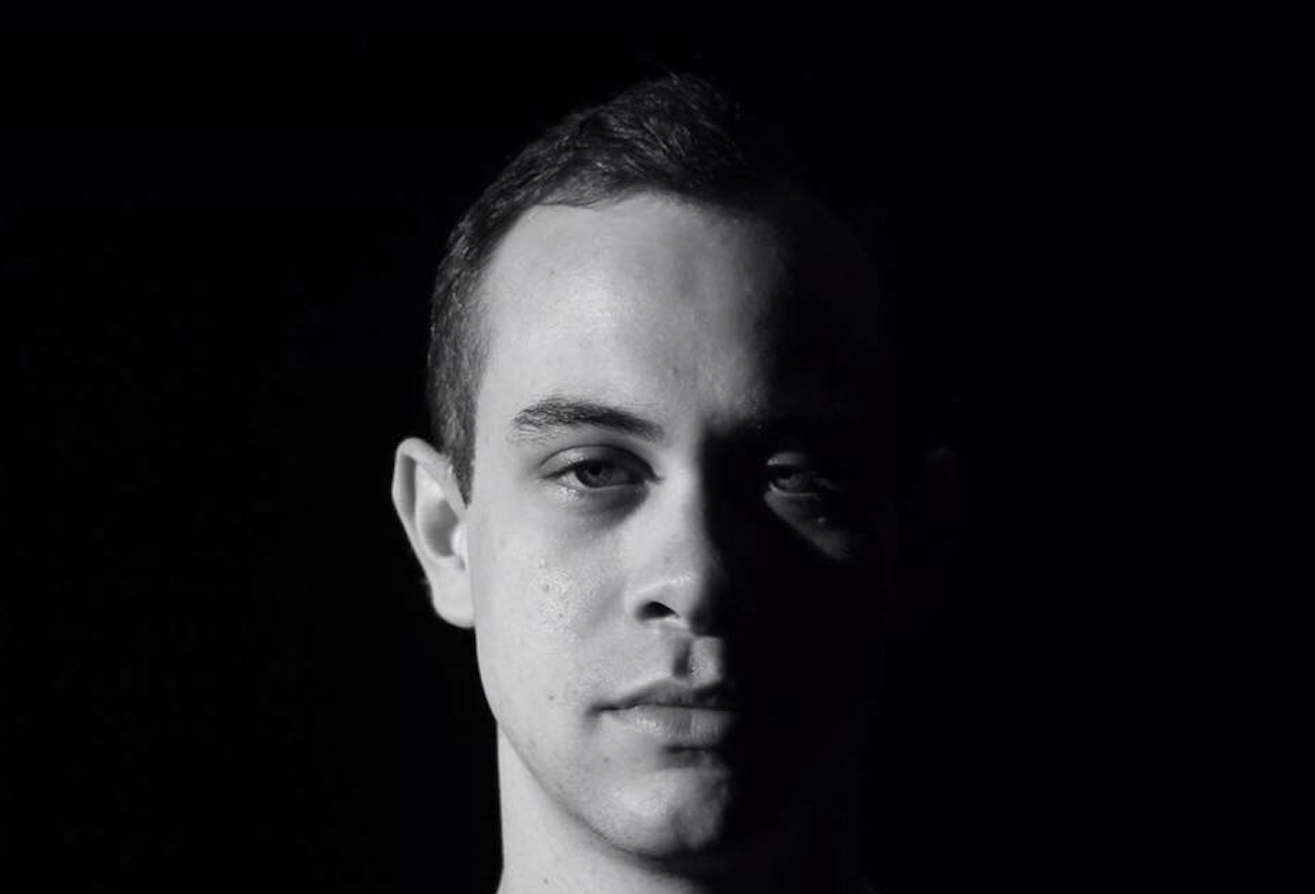
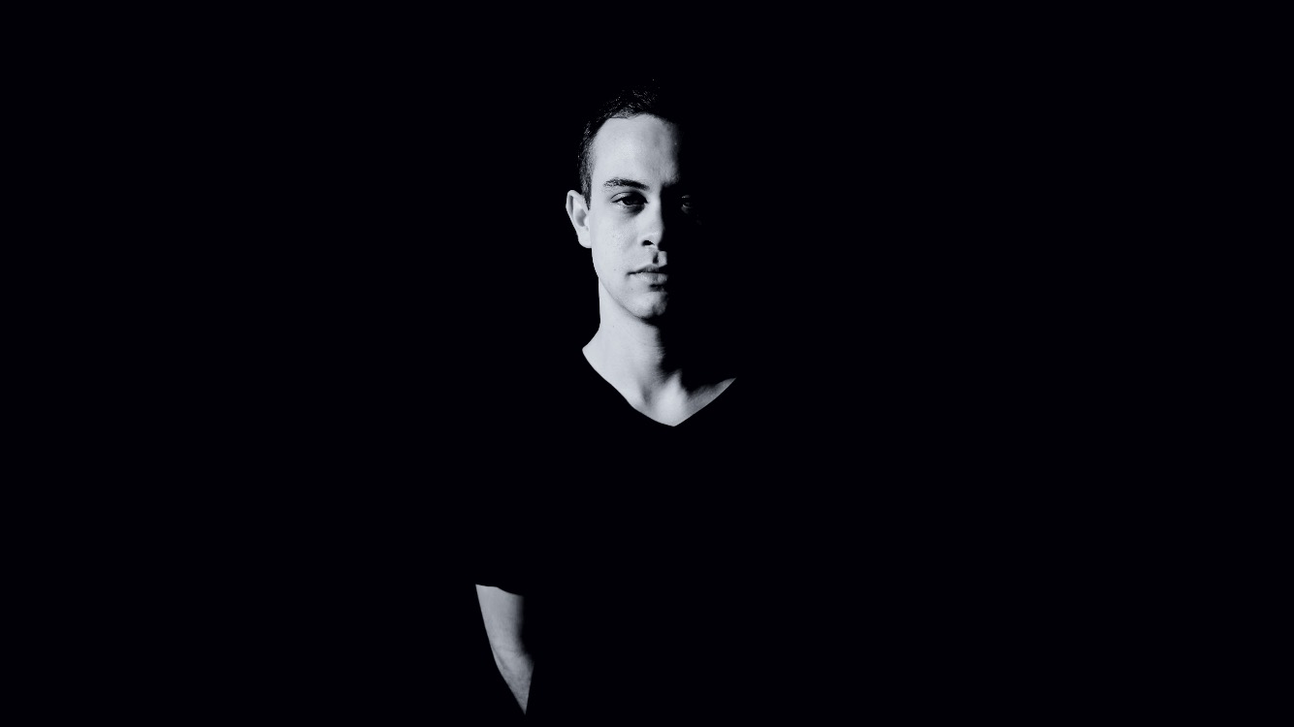
update image so jeremys head isnt so damn big

Changed region(s): [[0.2766, 0.092, 0.6454, 1.0]]

diff --git a/_site/assets/css/i.css b/_site/assets/css/i.css
@@ -1,1 +1,1 @@
-html,body,div,span,applet,object,iframe,h1,h2,h3,h4,h5,h6,p,blockquote,pre,a,abbr,acronym,address,big,cite,code,del,dfn,em,img,ins,kbd,q,s,samp,small,strike,strong,sub,sup,tt,var,b,u,i,center,dl,dt,dd,ol,ul,li,fieldset,form,label,legend,table,caption,tbody,tfoot,thead,tr,th,td,article,aside,canvas,details,figcaption,figure,footer,header,hgroup,menu,nav,section,summary,time,mark,audio,video{border:0;font:inherit;margin:0;outline:0;padding:0;vertical-align:baseline}article,aside,details,figcaption,figure,footer,header,hgroup,menu,nav,section{display:block}body{line-height:1}ul{list-style:none}blockquote,q{quotes:none}blockquote:before,blockquote:after,q:before,q:after{content:'';content:none}:focus{outline:none}ins{text-decoration:none}del{text-decoration:line-through}table{border-collapse:collapse;border-spacing:0}a{text-decoration:none}*{box-sizing:border-box}body{width:100%}body:before,body:after{content:"";display:table}body:after{clear:both}body{zoom:1}p{font-size:22px;line-height:33px}.intro{font-size:32px;line-height:1.4em}.post ul li{font-size:22px;line-height:33px;margin-bottom:11px}h1,.h1{font-size:64px}h2,.h2{font-size:48px}h3,.h3{font-size:32px}h4,.h4{font-size:24px}h5,.h5{font-size:16px}h6,.h6{font-size:12px}.meta{font-size:12px}blockquote,blockquote p{font-size:48px}.archive input{font-size:48px}@media only screen and (max-width: 480px){p{font-size:16px;line-height:24px}.intro{font-size:24px;line-height:1.4em}.post ul li{font-size:16px;line-height:24px;margin-bottom:12px}h1,.h1{font-size:48px}h2,.h2{font-size:32px}h3,.h3{font-size:24px}h4,.h4{font-size:16px}h5,.h5{font-size:12px}h6,.h6{font-size:12px}.meta{font-size:12px}blockquote,blockquote p{font-size:24px}.archive input{font-size:32px}}body{font-family:"Calendas Plus","Crimson Text","Hoefler Text","Georgia",serif;color:#3b3b3b;-webkit-font-smoothing:antialiased;-moz-osx-font-smoothing:grayscale;text-size-adjust:100%;background:#f9f9f9;min-height:100%;height:100%;overflow-x:hidden}h1,h2,h3,h4,h5{font-family:"Calendas Plus","Crimson Text","Hoefler Text","Georgia",serif}p{margin-bottom:33px}a,a:visited,a:active{color:#8AB9D1;-moz-transition:all .25s ease-in-out;-o-transition:all .25s ease-in-out;-webkit-transition:all .25s ease-in-out;-ms-transition:all .25s ease-in-out;transition:all .25s ease-in-out}a:hover{color:#24536B;-moz-transition:all .25s ease-in-out;-o-transition:all .25s ease-in-out;-webkit-transition:all .25s ease-in-out;-ms-transition:all .25s ease-in-out;transition:all .25s ease-in-out}em{padding:1px 2px;border-radius:2px;background:#ffe8c0}strong{font-weight:bold}small{font-size:16px}sup{vertical-align:super;font-size:12px}.hilite{display:inline-block;padding:0 0.3em;-moz-border-radius:4px;-webkit-border-radius:4px;border-radius:4px;background:#fffbd7}blockquote,blockquote p{font-style:italic;line-height:1.3em;text-align:center;color:#3c3c3c;margin-bottom:33px}code{color:#24536B;font-family:"Monaco", "Courier New", "Courier";font-size:.75em;font-weight:bold}.highlight{background:#3b3b3b;padding:12px;border-radius:4px;margin-bottom:33px;overflow-x:scroll}.highlight code{color:#f9f9f9;font-family:"Monaco", "Courier New", "Courier";font-size:.9em}.highlight code .lineno{margin-right:16.5px;color:#d9d9d9;line-height:2em}.highlight code .nt{color:#c85b5c}.highlight code .na{color:#f0e687}.highlight code .s{color:#87ceeb}hr{display:block;margin:0 auto;width:100%;height:4px;background:#d9d9d9;border:none;margin-bottom:33px;border-radius:2px}input{background:none;border:none;outline:none}.archive input{background:none;outline:none;width:100%;font-family:"Calendas Plus","Crimson Text","Hoefler Text","Georgia",serif}.archive input:focus{background:white;color:#3b3b3b}.icons{font-family:"Icons";font-size:14px;line-height:20px}.bb{border-bottom:2px solid #8AB9D1}.pad-top{padding-top:66px}#bump{min-height:100%;height:auto;margin:0 auto-320px}.wrap{max-width:960px;display:inline;float:left;width:97%;margin:0 1.5%;float:none;margin:0 auto;overflow:hidden}.wrap:before,.wrap:after{content:"";display:table}.wrap:after{clear:both}.wrap{zoom:1}.post{display:inline;float:left;width:77%;margin:0 1.5%;max-width:680px;display:block;margin:0 auto;float:none}header.site-header{padding:20px 0;position:absolute;width:100%;z-index:5000}header.site-header .wrap{max-width:90vw}#bump .darken a{color:#3b3b3b;-moz-transition:all .2s ease-in-out;-o-transition:all .2s ease-in-out;-webkit-transition:all .2s ease-in-out;-ms-transition:all .2s ease-in-out;transition:all .2s ease-in-out}#bump .darken a:hover{color:#8AB9D1;-moz-transition:all .2s ease-in-out;-o-transition:all .2s ease-in-out;-webkit-transition:all .2s ease-in-out;-ms-transition:all .2s ease-in-out;transition:all .2s ease-in-out}#bump .darken .menu .icons{color:#3b3b3b}#bump .darken nav ul li a{color:#3b3b3b}#bump .darken nav ul li a:active{color:#8AB9D1}#bump .darken nav ul li a:hover{text-shadow:none;color:#8AB9D1}header.site-header a.menu{display:none}header.site-header hgroup h1,header.site-header nav ul{font-family:"Source Sans Pro","Open Sans","Helvetica Neue","Arial",sans-serif}header.site-header hgroup{float:left;padding-left:5vw}header.site-header hgroup h1{font-weight:700;font-size:18px;line-height:100%;color:#24536B;letter-spacing:2px;text-transform:uppercase}header.site-header hgroup a{color:#fff;-moz-transition:all .2s ease;-o-transition:all .2s ease;-webkit-transition:all .2s ease;-ms-transition:all .2s ease;transition:all .2s ease}header.site-header hgroup a:hover{text-shadow:0 0 3px rgba(255,255,255,0.6);-moz-transition:all .2s ease;-o-transition:all .2s ease;-webkit-transition:all .2s ease;-ms-transition:all .2s ease;transition:all .2s ease}header.site-header nav{float:right;display:block;padding-right:5vw}header.site-header nav:before,header.site-header nav:after{content:"";display:table}header.site-header nav:after{clear:both}header.site-header nav{zoom:1}header.site-header nav ul li{font-size:16px;text-transform:uppercase;display:inline;font-weight:bold;top:2px;position:relative;margin-left:20px}header.site-header nav ul li a{color:white;-moz-transition:all .2s ease;-o-transition:all .2s ease;-webkit-transition:all .2s ease;-ms-transition:all .2s ease;transition:all .2s ease}header.site-header nav ul li a:hover{text-shadow:0 0 3px rgba(255,255,255,0.6);-moz-transition:all .2s ease;-o-transition:all .2s ease;-webkit-transition:all .2s ease;-ms-transition:all .2s ease;transition:all .2s ease}.article{position:relative;margin-bottom:33px}.article .overlay{vertical-align:middle;min-height:360px;height:50vh;width:100%;max-height:800px;position:absolute;z-index:2;background:rgba(0,0,0,0.55)}.article .overlay-lighter{background:rgba(0,0,0,0.1)}.article .featured-image{vertical-align:middle;min-height:360px;height:50vh;width:100%;max-height:800px;background-position:center center;background-size:cover;vertical-align:middle;-webkit-background-size:cover;-moz-background-size:cover;-o-background-size:cover;position:relative;top:0;z-index:-1}.article .featured-image img{max-height:800px}.article header{margin:66px 0 33px 0}.article header hgroup{color:#3b3b3b;position:relative;text-align:center;width:100%;margin-top:0}.article header hgroup .date{font-family:"Source Sans Pro","Open Sans","Helvetica Neue","Arial",sans-serif;font-size:16px;font-weight:bold;color:#d9d9d9;text-transform:uppercase;margin-top:22px}.article header .intro{text-align:left}.archive{display:inline;float:left;width:97%;margin:0 1.5%;display:block;margin:0 auto;float:none;min-height:500px}.archive-wrap{display:inline;float:left;width:97%;margin:0 1.5%;max-width:800px;display:block;margin:0 auto;float:none;padding-top:140px}.archive-wrap .post-list{list-style-type:none;list-style:none;display:inline;float:left;width:67%;margin:0 1.5%;margin-left:21.5%;display:block;float:none}.archive-wrap .post-list lh h2{margin-bottom:49.5px}.archive-wrap .post-list li{display:block;float:none;font-size:32px;margin-bottom:66px;position:relative}.archive-wrap .post-list li a{position:relative}.archive-wrap .post-list li a:hover{-moz-transition:all 1s ease-in-out;-o-transition:all 1s ease-in-out;-webkit-transition:all 1s ease-in-out;-ms-transition:all 1s ease-in-out;transition:all 1s ease-in-out}.archive-wrap .post-list li a:hover:before{content:'...';color:#d9d9d9;font-family:"Source Sans Pro","Open Sans","Helvetica Neue","Arial",sans-serif;position:absolute;margin-left:-70px;font-size:40px;left:0;top:-20px;text-align:center;-moz-transition:all 1s ease-in-out;-o-transition:all 1s ease-in-out;-webkit-transition:all 1s ease-in-out;-ms-transition:all 1s ease-in-out;transition:all 1s ease-in-out}.archive-wrap .post-list li a:before{content:'\201c';color:#d9d9d9;position:absolute;margin-left:-70px;font-size:60px;z-index:10;top:-6px;left:0;text-align:center;-moz-transition:all 1s ease-in-out;-o-transition:all 1s ease-in-out;-webkit-transition:all 1s ease-in-out;-ms-transition:all 1s ease-in-out;transition:all 1s ease-in-out}.archive-wrap .post-list li h1{font-size:32px;font-style:italic}.archive-wrap .post-list .summary{font-size:18px;line-height:1.45em}.archive-wrap .post-list .date{margin-bottom:3px}.archive-wrap .post-list .date time{position:relative;top:-3px;font-size:16px;font-weight:bold;font-family:"Source Sans Pro","Open Sans","Helvetica Neue","Arial",sans-serif;font-style:normal;color:#d9d9d9;text-transform:uppercase;vertical-align:middle}.post{min-height:500px}.post .deets{position:relative;top:45px;z-index:5}.post .deets .date{font-size:16px;position:relative;top:10px;left:6px;color:#999;margin-bottom:16.5px}.post h1{font-style:italic}.post h1,.post h2,.post h3,.post h4,.post h5{padding-top:16.5px;margin-bottom:16.5px;line-height:1.25em}.post figure{margin:33px 0}.post figure img{margin-bottom:16.5px}.post figure figcaption{font-size:16px;font-family:"Source Sans Pro","Open Sans","Helvetica Neue","Arial",sans-serif;font-weight:bold;text-transform:uppercase;color:#bbb;text-align:center}.post img{width:100%;height:auto;display:block;margin:33px auto;-moz-border-radius:4px;-webkit-border-radius:4px;border-radius:4px}.post table{margin-bottom:33px;width:100%;font-size:22px}.post table caption{font-size:16px;font-family:"Source Sans Pro","Open Sans","Helvetica Neue","Arial",sans-serif;font-weight:bold;text-transform:uppercase;color:#bbb;text-align:center;margin-bottom:16.5px}.post tbody tr:hover>td,.post tbody tr:hover>th{background-color:#999}.post thead tr:first-child td{border-bottom:2px solid #222}.post th{padding:12px;padding:.54545rem;font-family:"Source Sans Pro","Open Sans","Helvetica Neue","Arial",sans-serif;font-size:16px;font-weight:bold;text-align:left;background-color:#d9d9d9;border-bottom:1px solid #000}.post td{font-size:16px;border-bottom:1px solid #222;padding:12px;padding:.54545rem}.post tr,.post td,.post th{vertical-align:middle}.post ul{display:block;margin-bottom:33px;list-style:disc;list-style-type:disc}.post ul lh h1,.post ul lh h2,.post ul lh h3,.post ul lh h4,.post ul lh h5{border-bottom:2px solid #d9d9d9}.post ul li{list-style:disc;list-style-type:disc;margin-left:66px;padding-left:11px}.post ul li:last-child{margin-bottom:0}.post ol{display:block;margin-bottom:33px}.post ol lh h1,.post ol lh h2,.post ol lh h3,.post ol lh h4,.post ol lh h5{border-bottom:2px solid #d9d9d9}.post ol li{margin-left:66px;padding-left:11px;margin-bottom:11px;line-height:33px;font-size:22px}.post ol li:last-child{margin-bottom:0}.post .share{text-align:center;display:block;margin:0 auto;width:76px;font-size:16px;font-family:"Source Sans Pro","Open Sans","Helvetica Neue","Arial",sans-serif;text-transform:uppercase;font-weight:bold;letter-spacing:1px;padding:4px 6px 4px 6px;color:#d9d9d9;border:2px solid rgba(217,217,217,0.7);-moz-border-radius:4px;-webkit-border-radius:4px;border-radius:4px}.post .share:hover{color:#8AB9D1;border-color:rgba(138,185,209,0.7);-moz-transition:all .2s ease;-o-transition:all .2s ease;-webkit-transition:all .2s ease;-ms-transition:all .2s ease;transition:all .2s ease}.push{height:80px !important}footer{width:100%;background:#3b3b3b;height:320px;font-size:22px;color:#f9f9f9;position:relative}footer section{display:inline;float:left;width:97%;margin:0 1.5%;display:block;width:103%;margin:0 -1.5%;display:block;margin:0 auto}footer section:before,footer section:after{content:"";display:table}footer section:after{clear:both}footer section{zoom:1}footer small{font-size:12px;text-align:center;display:block;width:100%;position:absolute;bottom:8px;font-family:"Source Sans Pro","Open Sans","Helvetica Neue","Arial",sans-serif;text-transform:uppercase;color:rgba(249,249,249,0.1)}footer small a{color:rgba(249,249,249,0.3)}footer .list-title{margin-bottom:16.5px;border-bottom:2px solid #8AB9D1;font-style:italic;font-size:24px}footer .prev-posts{display:inline;float:left;width:57%;margin:0 1.5%;max-width:600px;min-height:250px;padding-left:5vw}footer .prev-posts p{padding-top:66px}footer .prev-posts li{display:block;width:102.5%;margin:0 -1.25%;margin-top:16.5px}footer .prev-posts li:before,footer .prev-posts li:after{content:"";display:table}footer .prev-posts li:after{clear:both}footer .prev-posts li{zoom:1}footer .prev-posts li .recent-title{display:inline;float:left;width:64.16667%;margin:0 1.25%;font-style:italic}footer .prev-posts li .recent-title a:hover{color:#f9f9f9}footer .prev-posts li span.date{float:none;color:rgba(217,217,217,0.6);display:inline;float:left;width:30.83333%;margin:0 1.25%;position:relative;font-size:16px;font-family:"Source Sans Pro","Open Sans","Helvetica Neue","Arial",sans-serif;text-transform:uppercase;text-align:right}footer .social{position:absolute;top:109px;display:inline;float:left;width:14.16667%;margin:0 1.25%;right:5vw;font-style:italic}footer .social a:hover{color:#f9f9f9}footer .social ul li{margin-bottom:16.5px}footer .social ul li:last-child{margin-bottom:0}.disqus{margin-top:99px}@media only screen and (max-width: 800px){h1{font-size:48px}blockquote,blockquote p{font-size:32px}footer{font-size:16px}footer .prev-posts li span.date{font-size:12px}footer .social{right:10vw}}@media only screen and (max-width: 500px){footer .social{display:none}footer aside{width:90%;margin:0 auto}footer .prev-posts{display:inline;float:left;width:87%;margin:0 1.5%;padding-left:0;float:none;margin:0 auto;display:block}footer .prev-posts li{margin-top:16.5px}}@media only screen and (max-width: 680px){section.article img.loading{top:10px !important;right:6%;left:inherit}header.site-header{min-height:59px;margin-top:20px;padding-top:0}header.site-header hgroup h1{margin-bottom:0;font-size:22px}header.site-header hgroup{position:absolute;left:7%;float:none;padding-left:0}header.site-header a.menu{position:absolute;right:7%;display:block;float:right;width:16px;height:16px;color:white}header.site-header a.menu .icons{font-size:32px}header.site-header a.menu img{width:24px;height:auto}header.site-header nav{display:none;float:none;width:100%;padding-right:0}header.site-header nav:before{display:table;clear:both;content:''}header.site-header nav ul{padding:20px 0 10px 0;margin-top:15px}header.site-header nav ul li{display:block;margin-left:0;top:0px;font-size:16px}header.site-header nav ul li a{display:block;text-align:right;font-weight:bold;padding:15px 0px;padding-right:7%;position:relative;width:100%;color:#f9f9f9}header.site-header nav ul li a:active{background-color:#8AB9D1;color:white}header.site-header nav ul li a:hover{text-shadow:none}#bump .darken nav ul{padding:0;margin-top:40px;background:#3b3b3b}#bump .darken nav ul li a{color:#f9f9f9}#bump .darken nav ul li a:active{background-color:#8AB9D1}#bump .darken nav ul li a:hover{text-shadow:none;color:#f9f9f9;background-color:#8AB9D1}}@media only screen and (max-width: 480px){.post{display:inline;float:left;width:87%;margin:0 1.5%;max-width:420px;display:block;margin:0 auto;float:none}footer{font-size:16px}small{font-size:12px}}
+html,body,div,span,applet,object,iframe,h1,h2,h3,h4,h5,h6,p,blockquote,pre,a,abbr,acronym,address,big,cite,code,del,dfn,em,img,ins,kbd,q,s,samp,small,strike,strong,sub,sup,tt,var,b,u,i,center,dl,dt,dd,ol,ul,li,fieldset,form,label,legend,table,caption,tbody,tfoot,thead,tr,th,td,article,aside,canvas,details,figcaption,figure,footer,header,hgroup,menu,nav,section,summary,time,mark,audio,video{border:0;font:inherit;margin:0;outline:0;padding:0;vertical-align:baseline}article,aside,details,figcaption,figure,footer,header,hgroup,menu,nav,section{display:block}body{line-height:1}ul{list-style:none}blockquote,q{quotes:none}blockquote:before,blockquote:after,q:before,q:after{content:'';content:none}:focus{outline:none}ins{text-decoration:none}del{text-decoration:line-through}table{border-collapse:collapse;border-spacing:0}a{text-decoration:none}*{box-sizing:border-box}body{width:100%}body:before,body:after{content:"";display:table}body:after{clear:both}body{zoom:1}p{font-size:22px;line-height:33px}.intro{font-size:32px;line-height:1.4em}.post ul li{font-size:22px;line-height:33px;margin-bottom:11px}h1,.h1{font-size:64px}h2,.h2{font-size:48px}h3,.h3{font-size:32px}h4,.h4{font-size:24px}h5,.h5{font-size:16px}h6,.h6{font-size:12px}.meta{font-size:12px}blockquote,blockquote p{font-size:48px}.archive input{font-size:48px}@media only screen and (max-width: 480px){p{font-size:16px;line-height:24px}.intro{font-size:24px;line-height:1.4em}.post ul li{font-size:16px;line-height:24px;margin-bottom:12px}h1,.h1{font-size:48px}h2,.h2{font-size:32px}h3,.h3{font-size:24px}h4,.h4{font-size:16px}h5,.h5{font-size:12px}h6,.h6{font-size:12px}.meta{font-size:12px}blockquote,blockquote p{font-size:24px}.archive input{font-size:32px}}body{font-family:"Calendas Plus","Crimson Text","Hoefler Text","Georgia",serif;color:#3b3b3b;-webkit-font-smoothing:antialiased;-moz-osx-font-smoothing:grayscale;text-size-adjust:100%;background:#f9f9f9;min-height:100%;height:100%;overflow-x:hidden}h1,h2,h3,h4,h5{font-family:"Calendas Plus","Crimson Text","Hoefler Text","Georgia",serif}p{margin-bottom:33px}a,a:visited,a:active{color:#8AB9D1;-moz-transition:all .25s ease-in-out;-o-transition:all .25s ease-in-out;-webkit-transition:all .25s ease-in-out;-ms-transition:all .25s ease-in-out;transition:all .25s ease-in-out}a:hover{color:#24536B;-moz-transition:all .25s ease-in-out;-o-transition:all .25s ease-in-out;-webkit-transition:all .25s ease-in-out;-ms-transition:all .25s ease-in-out;transition:all .25s ease-in-out}em{padding:1px 2px;border-radius:2px;background:#ffe8c0}strong{font-weight:bold}small{font-size:16px}sup{vertical-align:super;font-size:12px}.hilite{display:inline-block;padding:0 0.3em;-moz-border-radius:4px;-webkit-border-radius:4px;border-radius:4px;background:#fffbd7}blockquote,blockquote p{font-style:italic;line-height:1.3em;text-align:center;color:#3c3c3c;margin-bottom:33px}code{color:#24536B;font-family:"Monaco", "Courier New", "Courier";font-size:.75em;font-weight:bold}.highlight{background:#3b3b3b;padding:12px;border-radius:4px;margin-bottom:33px;overflow-x:scroll}.highlight code{color:#f9f9f9;font-family:"Monaco", "Courier New", "Courier";font-size:.9em}.highlight code .lineno{margin-right:16.5px;color:#d9d9d9;line-height:2em}.highlight code .nt{color:#c85b5c}.highlight code .na{color:#f0e687}.highlight code .s{color:#87ceeb}hr{display:block;margin:0 auto;width:100%;height:4px;background:#d9d9d9;border:none;margin-bottom:33px;border-radius:2px}input{background:none;border:none;outline:none}.archive input{background:none;outline:none;width:100%;font-family:"Calendas Plus","Crimson Text","Hoefler Text","Georgia",serif}.archive input:focus{background:white;color:#3b3b3b}.icons{font-family:"Icons";font-size:14px;line-height:20px}.bb{border-bottom:2px solid #8AB9D1}.pad-top{padding-top:66px}#bump{min-height:100%;height:auto;margin:0 auto-320px}.wrap{max-width:960px;display:inline;float:left;width:97%;margin:0 1.5%;float:none;margin:0 auto;overflow:hidden}.wrap:before,.wrap:after{content:"";display:table}.wrap:after{clear:both}.wrap{zoom:1}.post{display:inline;float:left;width:77%;margin:0 1.5%;max-width:680px;display:block;margin:0 auto;float:none}header.site-header{padding:20px 0;position:absolute;width:100%;z-index:5000}header.site-header .wrap{max-width:90vw}#bump .darken a{color:#3b3b3b;-moz-transition:all .2s ease-in-out;-o-transition:all .2s ease-in-out;-webkit-transition:all .2s ease-in-out;-ms-transition:all .2s ease-in-out;transition:all .2s ease-in-out}#bump .darken a:hover{color:#8AB9D1;-moz-transition:all .2s ease-in-out;-o-transition:all .2s ease-in-out;-webkit-transition:all .2s ease-in-out;-ms-transition:all .2s ease-in-out;transition:all .2s ease-in-out}#bump .darken .menu .icons{color:#3b3b3b}#bump .darken nav ul li a{color:#3b3b3b}#bump .darken nav ul li a:active{color:#8AB9D1}#bump .darken nav ul li a:hover{text-shadow:none;color:#8AB9D1}header.site-header a.menu{display:none}header.site-header hgroup h1,header.site-header nav ul{font-family:"Source Sans Pro","Open Sans","Helvetica Neue","Arial",sans-serif}header.site-header hgroup{float:left;padding-left:5vw}header.site-header hgroup h1{font-weight:700;font-size:18px;line-height:100%;color:#24536B;letter-spacing:2px;text-transform:uppercase}header.site-header hgroup a{color:#fff;-moz-transition:all .2s ease;-o-transition:all .2s ease;-webkit-transition:all .2s ease;-ms-transition:all .2s ease;transition:all .2s ease}header.site-header hgroup a:hover{text-shadow:0 0 3px rgba(255,255,255,0.6);-moz-transition:all .2s ease;-o-transition:all .2s ease;-webkit-transition:all .2s ease;-ms-transition:all .2s ease;transition:all .2s ease}header.site-header nav{float:right;display:block;padding-right:5vw}header.site-header nav:before,header.site-header nav:after{content:"";display:table}header.site-header nav:after{clear:both}header.site-header nav{zoom:1}header.site-header nav ul li{font-size:16px;text-transform:uppercase;display:inline;font-weight:bold;top:2px;position:relative;margin-left:20px}header.site-header nav ul li a{color:white;-moz-transition:all .2s ease;-o-transition:all .2s ease;-webkit-transition:all .2s ease;-ms-transition:all .2s ease;transition:all .2s ease}header.site-header nav ul li a:hover{text-shadow:0 0 3px rgba(255,255,255,0.6);-moz-transition:all .2s ease;-o-transition:all .2s ease;-webkit-transition:all .2s ease;-ms-transition:all .2s ease;transition:all .2s ease}.article{position:relative;margin-bottom:33px}.article .overlay{vertical-align:middle;min-height:360px;height:50vh;width:100%;max-height:800px;position:absolute;z-index:2;background:rgba(0,0,0,0.55)}.article .overlay-lighter{background:rgba(0,0,0,0.1)}.article .featured-image{vertical-align:middle;min-height:360px;height:50vh;width:100%;max-height:800px;background-position:20% 20%;background-size:cover;vertical-align:middle;-webkit-background-size:cover;-moz-background-size:cover;-o-background-size:cover;position:relative;top:0;z-index:-1}.article .featured-image img{max-height:800px}.article header{margin:66px 0 33px 0}.article header hgroup{color:#3b3b3b;position:relative;text-align:center;width:100%;margin-top:0}.article header hgroup .date{font-family:"Source Sans Pro","Open Sans","Helvetica Neue","Arial",sans-serif;font-size:16px;font-weight:bold;color:#d9d9d9;text-transform:uppercase;margin-top:22px}.article header .intro{text-align:left}.archive{display:inline;float:left;width:97%;margin:0 1.5%;display:block;margin:0 auto;float:none;min-height:500px}.archive-wrap{display:inline;float:left;width:97%;margin:0 1.5%;max-width:800px;display:block;margin:0 auto;float:none;padding-top:140px}.archive-wrap .post-list{list-style-type:none;list-style:none;display:inline;float:left;width:67%;margin:0 1.5%;margin-left:21.5%;display:block;float:none}.archive-wrap .post-list lh h2{margin-bottom:49.5px}.archive-wrap .post-list li{display:block;float:none;font-size:32px;margin-bottom:66px;position:relative}.archive-wrap .post-list li a{position:relative}.archive-wrap .post-list li a:hover{-moz-transition:all 1s ease-in-out;-o-transition:all 1s ease-in-out;-webkit-transition:all 1s ease-in-out;-ms-transition:all 1s ease-in-out;transition:all 1s ease-in-out}.archive-wrap .post-list li a:hover:before{content:'...';color:#d9d9d9;font-family:"Source Sans Pro","Open Sans","Helvetica Neue","Arial",sans-serif;position:absolute;margin-left:-70px;font-size:40px;left:0;top:-20px;text-align:center;-moz-transition:all 1s ease-in-out;-o-transition:all 1s ease-in-out;-webkit-transition:all 1s ease-in-out;-ms-transition:all 1s ease-in-out;transition:all 1s ease-in-out}.archive-wrap .post-list li a:before{content:'\201c';color:#d9d9d9;position:absolute;margin-left:-70px;font-size:60px;z-index:10;top:-6px;left:0;text-align:center;-moz-transition:all 1s ease-in-out;-o-transition:all 1s ease-in-out;-webkit-transition:all 1s ease-in-out;-ms-transition:all 1s ease-in-out;transition:all 1s ease-in-out}.archive-wrap .post-list li h1{font-size:32px;font-style:italic}.archive-wrap .post-list .summary{font-size:18px;line-height:1.45em}.archive-wrap .post-list .date{margin-bottom:3px}.archive-wrap .post-list .date time{position:relative;top:-3px;font-size:16px;font-weight:bold;font-family:"Source Sans Pro","Open Sans","Helvetica Neue","Arial",sans-serif;font-style:normal;color:#d9d9d9;text-transform:uppercase;vertical-align:middle}.post{min-height:500px}.post .deets{position:relative;top:45px;z-index:5}.post .deets .date{font-size:16px;position:relative;top:10px;left:6px;color:#999;margin-bottom:16.5px}.post h1{font-style:italic}.post h1,.post h2,.post h3,.post h4,.post h5{padding-top:16.5px;margin-bottom:16.5px;line-height:1.25em}.post figure{margin:33px 0}.post figure img{margin-bottom:16.5px}.post figure figcaption{font-size:16px;font-family:"Source Sans Pro","Open Sans","Helvetica Neue","Arial",sans-serif;font-weight:bold;text-transform:uppercase;color:#bbb;text-align:center}.post img{width:100%;height:auto;display:block;margin:33px auto;-moz-border-radius:4px;-webkit-border-radius:4px;border-radius:4px}.post table{margin-bottom:33px;width:100%;font-size:22px}.post table caption{font-size:16px;font-family:"Source Sans Pro","Open Sans","Helvetica Neue","Arial",sans-serif;font-weight:bold;text-transform:uppercase;color:#bbb;text-align:center;margin-bottom:16.5px}.post tbody tr:hover>td,.post tbody tr:hover>th{background-color:#999}.post thead tr:first-child td{border-bottom:2px solid #222}.post th{padding:12px;padding:.54545rem;font-family:"Source Sans Pro","Open Sans","Helvetica Neue","Arial",sans-serif;font-size:16px;font-weight:bold;text-align:left;background-color:#d9d9d9;border-bottom:1px solid #000}.post td{font-size:16px;border-bottom:1px solid #222;padding:12px;padding:.54545rem}.post tr,.post td,.post th{vertical-align:middle}.post ul{display:block;margin-bottom:33px;list-style:disc;list-style-type:disc}.post ul lh h1,.post ul lh h2,.post ul lh h3,.post ul lh h4,.post ul lh h5{border-bottom:2px solid #d9d9d9}.post ul li{list-style:disc;list-style-type:disc;margin-left:66px;padding-left:11px}.post ul li:last-child{margin-bottom:0}.post ol{display:block;margin-bottom:33px}.post ol lh h1,.post ol lh h2,.post ol lh h3,.post ol lh h4,.post ol lh h5{border-bottom:2px solid #d9d9d9}.post ol li{margin-left:66px;padding-left:11px;margin-bottom:11px;line-height:33px;font-size:22px}.post ol li:last-child{margin-bottom:0}.post .share{text-align:center;display:block;margin:0 auto;width:76px;font-size:16px;font-family:"Source Sans Pro","Open Sans","Helvetica Neue","Arial",sans-serif;text-transform:uppercase;font-weight:bold;letter-spacing:1px;padding:4px 6px 4px 6px;color:#d9d9d9;border:2px solid rgba(217,217,217,0.7);-moz-border-radius:4px;-webkit-border-radius:4px;border-radius:4px}.post .share:hover{color:#8AB9D1;border-color:rgba(138,185,209,0.7);-moz-transition:all .2s ease;-o-transition:all .2s ease;-webkit-transition:all .2s ease;-ms-transition:all .2s ease;transition:all .2s ease}.push{height:80px !important}footer{width:100%;background:#3b3b3b;height:320px;font-size:22px;color:#f9f9f9;position:relative}footer section{display:inline;float:left;width:97%;margin:0 1.5%;display:block;width:103%;margin:0 -1.5%;display:block;margin:0 auto}footer section:before,footer section:after{content:"";display:table}footer section:after{clear:both}footer section{zoom:1}footer small{font-size:12px;text-align:center;display:block;width:100%;position:absolute;bottom:8px;font-family:"Source Sans Pro","Open Sans","Helvetica Neue","Arial",sans-serif;text-transform:uppercase;color:rgba(249,249,249,0.1)}footer small a{color:rgba(249,249,249,0.3)}footer .list-title{margin-bottom:16.5px;border-bottom:2px solid #8AB9D1;font-style:italic;font-size:24px}footer .prev-posts{display:inline;float:left;width:57%;margin:0 1.5%;max-width:600px;min-height:250px;padding-left:5vw}footer .prev-posts p{padding-top:66px}footer .prev-posts li{display:block;width:102.5%;margin:0 -1.25%;margin-top:16.5px}footer .prev-posts li:before,footer .prev-posts li:after{content:"";display:table}footer .prev-posts li:after{clear:both}footer .prev-posts li{zoom:1}footer .prev-posts li .recent-title{display:inline;float:left;width:64.16667%;margin:0 1.25%;font-style:italic}footer .prev-posts li .recent-title a:hover{color:#f9f9f9}footer .prev-posts li span.date{float:none;color:rgba(217,217,217,0.6);display:inline;float:left;width:30.83333%;margin:0 1.25%;position:relative;font-size:16px;font-family:"Source Sans Pro","Open Sans","Helvetica Neue","Arial",sans-serif;text-transform:uppercase;text-align:right}footer .social{position:absolute;top:109px;display:inline;float:left;width:14.16667%;margin:0 1.25%;right:5vw;font-style:italic}footer .social a:hover{color:#f9f9f9}footer .social ul li{margin-bottom:16.5px}footer .social ul li:last-child{margin-bottom:0}.disqus{margin-top:99px}@media only screen and (max-width: 800px){h1{font-size:48px}blockquote,blockquote p{font-size:32px}footer{font-size:16px}footer .prev-posts li span.date{font-size:12px}footer .social{right:10vw}}@media only screen and (max-width: 500px){footer .social{display:none}footer aside{width:90%;margin:0 auto}footer .prev-posts{display:inline;float:left;width:87%;margin:0 1.5%;padding-left:0;float:none;margin:0 auto;display:block}footer .prev-posts li{margin-top:16.5px}}@media only screen and (max-width: 680px){section.article img.loading{top:10px !important;right:6%;left:inherit}header.site-header{min-height:59px;margin-top:20px;padding-top:0}header.site-header hgroup h1{margin-bottom:0;font-size:22px}header.site-header hgroup{position:absolute;left:7%;float:none;padding-left:0}header.site-header a.menu{position:absolute;right:7%;display:block;float:right;width:16px;height:16px;color:white}header.site-header a.menu .icons{font-size:32px}header.site-header a.menu img{width:24px;height:auto}header.site-header nav{display:none;float:none;width:100%;padding-right:0}header.site-header nav:before{display:table;clear:both;content:''}header.site-header nav ul{padding:20px 0 10px 0;margin-top:15px}header.site-header nav ul li{display:block;margin-left:0;top:0px;font-size:16px}header.site-header nav ul li a{display:block;text-align:right;font-weight:bold;padding:15px 0px;padding-right:7%;position:relative;width:100%;color:#f9f9f9}header.site-header nav ul li a:active{background-color:#8AB9D1;color:white}header.site-header nav ul li a:hover{text-shadow:none}#bump .darken nav ul{padding:0;margin-top:40px;background:#3b3b3b}#bump .darken nav ul li a{color:#f9f9f9}#bump .darken nav ul li a:active{background-color:#8AB9D1}#bump .darken nav ul li a:hover{text-shadow:none;color:#f9f9f9;background-color:#8AB9D1}}@media only screen and (max-width: 480px){.post{display:inline;float:left;width:87%;margin:0 1.5%;max-width:420px;display:block;margin:0 auto;float:none}footer{font-size:16px}small{font-size:12px}}

diff --git a/_site/about/index.html b/_site/about/index.html
@@ -1,14 +1,14 @@
 <!doctype html>
 <html lang="en" prefix="og: http://ogp.me/ns#">
 <meta charset="utf-8">
-<title>About Jeremy Smith &#8211; Jeremy Smith</title>
+<title>Biography &#8211; Jeremy Smith</title>
 <meta name="description" content="">
 <meta name="keywords" content="about, Jekyll, theme, responsive">
 
 <!-- DSLs for various open graph languages -->
 <meta property="og:locale" content="en_US">
-<meta property="og:title" content="About Jeremy Smith &#8211; Jeremy Smith">
-<meta property="og:description" content="### About JeremyJeremy Smith (b.1992) is a composer of chamber works, symphonic works, vocal works, and music for dan...">
+<meta property="og:title" content="Biography &#8211; Jeremy Smith">
+<meta property="og:description" content="Jeremy Smith (b.1992) is a composer of chamber works, symphonic works, vocal works, and music for dance whose influen...">
 <meta property="og:url" content="http://localhost:4000/about/index.html">
 <meta property="og:site_name" content="Jeremy Smith">
 
@@ -90,21 +90,20 @@
       <article class="wrap post">
         <header class="post-header">
           <hgroup>
-            <h1>About Jeremy Smith</h1>
+            <h1>Biography</h1>
             <p class="date"></p>
             <p class="intro"></p>
           </hgroup>
         </header>
 
-        <h3 id="about-jeremy">About Jeremy</h3>
-<p>Jeremy Smith (b.1992) is a composer of chamber works, symphonic works, vocal works, and music for dance whose influences range from popular music to Bach. Described by SET Magazine as “One of the most unique and promising talents the shoals has ever produced,” he has had a number of successes in his short time as a composer. In 2015 he was the first composer to ever win the Shoals Symphony Solo Artist Contest for his work “The Fourth Wall for Symphonic Winds and Percussion”. In 2016 he was selected as a resident at the Azule Artist Residency in Hot Springs, NC where he worked for a month as a resident and composer.</p>
+        <p>Jeremy Smith (b.1992) is a composer of chamber works, symphonic works, vocal works, and music for dance whose influences range from popular music to Bach. Described by SET Magazine as “One of the most unique and promising talents the shoals has ever produced,” he has had a number of successes in his short time as a composer. In 2015 he was the first composer to ever win the Shoals Symphony Solo Artist Contest for his work “The Fourth Wall for Symphonic Winds and Percussion”. In 2016 he was selected as a resident at the Azule Artist Residency in Hot Springs, NC where he worked for a month as a resident and composer.</p>
 
 <p>Beyond the concert stage, he is a sought after collaborator across genres. He currently designs, arranges, and instructs for several groups across the country. In 2014 he served as the battery arranger and battery caption head for Southwind Drum and Bugle Corps. He currently serves as a member of the percussion staff at Music City Drum Corps and Clarksville Audio Theatre.</p>
 
 <p>Jeremy is currently attending the University of North Alabama where he is finishing a Degree in Instrumental Music with a focus in Music Theory and Composition and a minor in Philosophy.</p>
 
 
-      <a class="share" href="https://twitter.com/intent/tweet?text=&quot;About Jeremy Smith&quot;%20/about/index.html%20via%20&#64;" data-dnt="true">Share</a>
+      <a class="share" href="https://twitter.com/intent/tweet?text=&quot;Biography&quot;%20/about/index.html%20via%20&#64;" data-dnt="true">Share</a>
       <script>!function(d,s,id){var js,fjs=d.getElementsByTagName(s)[0];if(!d.getElementById(id)){js=d.createElement(s);js.id=id;js.src="//platform.twitter.com/widgets.js";fjs.parentNode.insertBefore(js,fjs);}}(document,"script","twitter-wjs");</script>
 
       

diff --git a/_sass/_styles.scss b/_sass/_styles.scss
@@ -300,7 +300,7 @@ header.site-header nav {
         height: 50vh;
         width: 100%;
         max-height: 800px;
-        background-position: center center;
+        background-position: 20% 20%;
         background-size: cover;
         vertical-align: middle;
         -webkit-background-size: cover;

diff --git a/about.md b/about.md
@@ -1,14 +1,13 @@
 ---
 layout: post
 permalink: /about/index.html
-title: About Jeremy Smith
+title: Biography
 description: 
 tags: [about, Jekyll, theme, responsive]
 image:
   feature: jeremy-header-image.png
 ---
 
-### About Jeremy
 Jeremy Smith (b.1992) is a composer of chamber works, symphonic works, vocal works, and music for dance whose influences range from popular music to Bach. Described by SET Magazine as "One of the most unique and promising talents the shoals has ever produced," he has had a number of successes in his short time as a composer. In 2015 he was the first composer to ever win the Shoals Symphony Solo Artist Contest for his work "The Fourth Wall for Symphonic Winds and Percussion". In 2016 he was selected as a resident at the Azule Artist Residency in Hot Springs, NC where he worked for a month as a resident and composer. 
 
 Beyond the concert stage, he is a sought after collaborator across genres. He currently designs, arranges, and instructs for several groups across the country. In 2014 he served as the battery arranger and battery caption head for Southwind Drum and Bugle Corps. He currently serves as a member of the percussion staff at Music City Drum Corps and Clarksville Audio Theatre.
